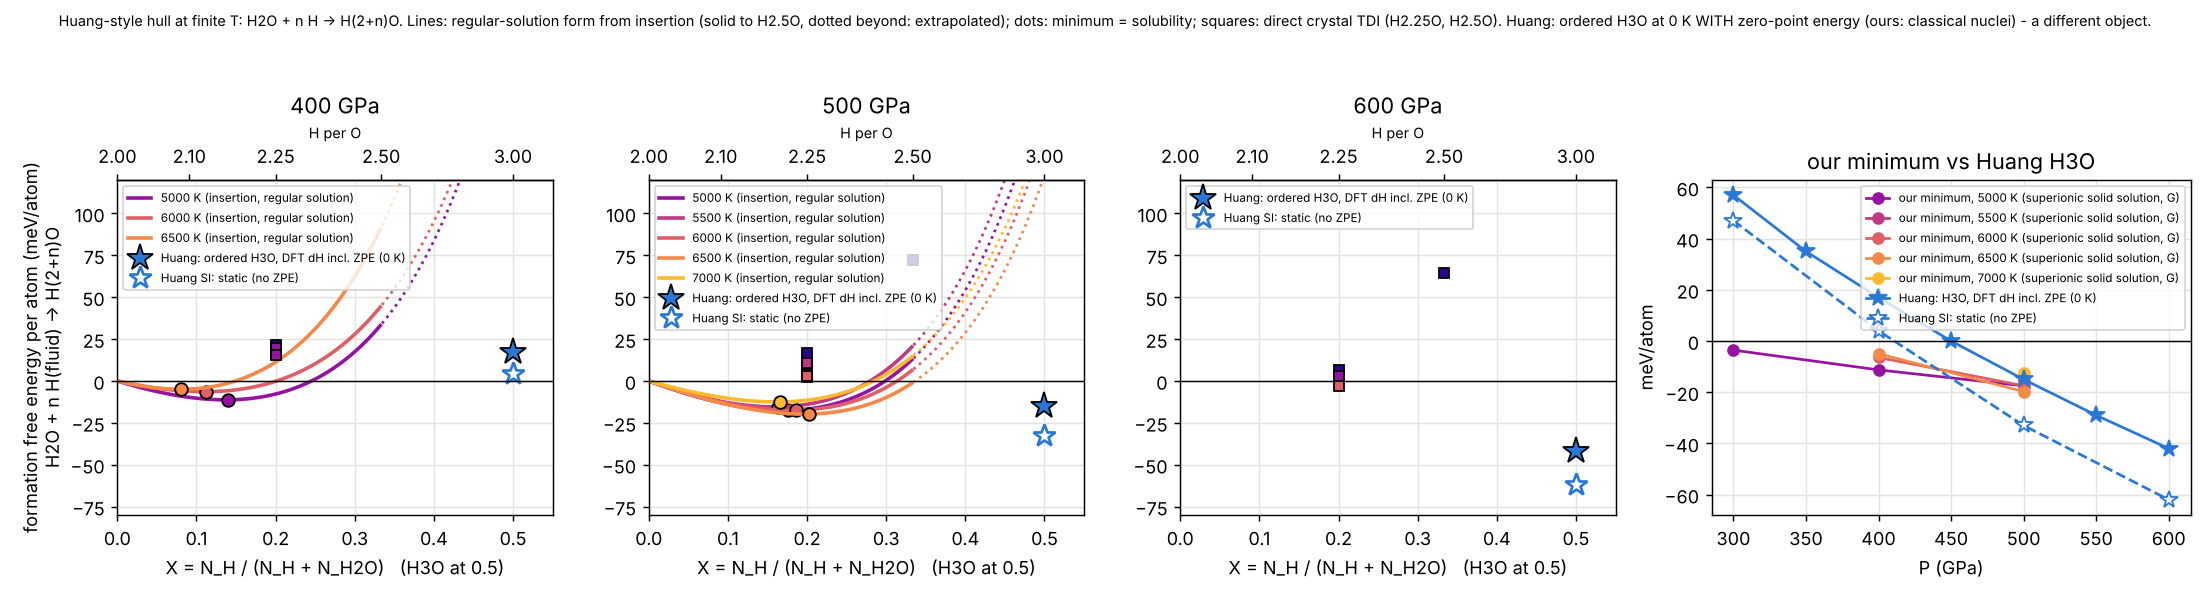
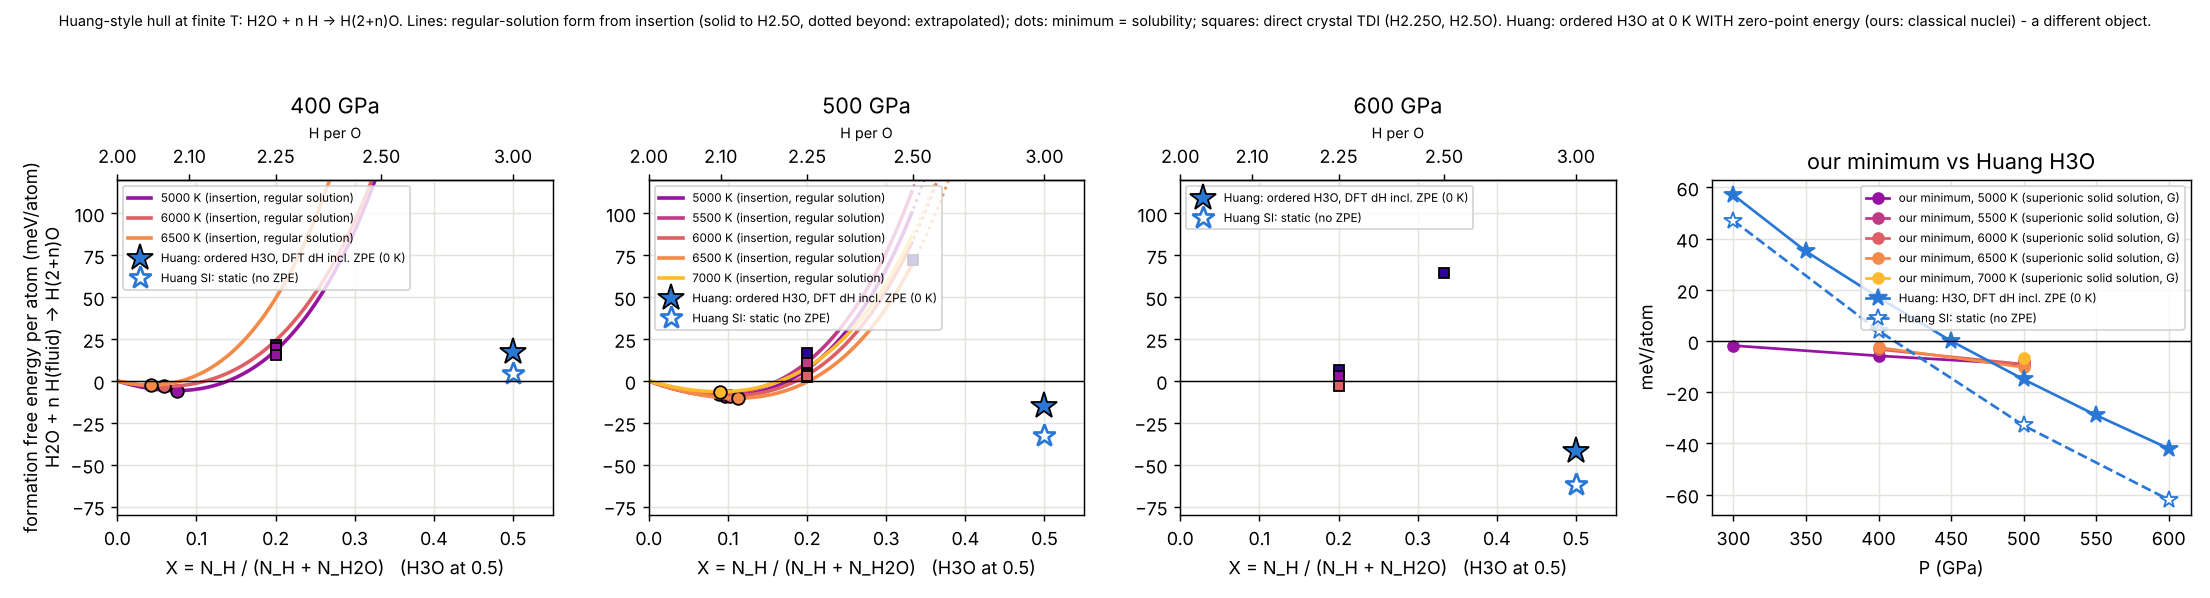
h3o_static: --variants (skip partly filled H3O), reuse finished pressures, batch job young_h3o_static.sbatch; T-x diagram (tx_diagram.py) from solid insertion + liquid mixing + melting dG; regular-solution fit is an average per added H: solubility n* = -mu0/(2s)
Claude-Session: https://claude.ai/code/session_01RSfmJNpmRzcKj5F71AN4DM

diff --git a/mlp_pipeline/tdi/tx_diagram.py b/mlp_pipeline/tdi/tx_diagram.py
@@ -1,0 +1,139 @@
+"""T-x phase diagram of H2O + H at fixed P from our free energies (GRACE TDI), per atom vs X = n/(3+n) (atom fraction of added H; X = 0 H2O, X = 1 pure H):
+  solid solution (superionic fcc H(2+n)O): g_s = (mu0 n + s n^2) / (3 + n): mu0 + s n is the AVERAGE dG per added H (insertion of n H and the direct crystals both
+      measure averages; docs/data/insertion_regsol_fit.csv), so the next-H chemical potential is mu0 + 2 s n; mu0, s linear in T;
+      only n <= NMAX (0.6) is used (beyond: extrapolation of the regular-solution form);
+  liquid: g_l = (1 - X) dG_melt(T) + dG_mix(X, T), dG_melt = G_liq - G_fcc of H2O (docs/data/melt_dG_grace.csv, linear in T),
+      dG_mix = X (1 - X) (a + b (1 - 2X)) fitted to the liquid mixing points (docs/data/liquid_mix_grace.csv) at each T, a, b linear in T between the T with data;
+  all relative to H2O solid + fluid H (pure H fluid: 0). At each T the lower convex hull gives: solid solution up to the SOLVUS x_s, two phases (solid + liquid),
+  liquid from x_l (LIQUIDUS composition) on; if the hull starts on the liquid, the H2O solid is gone (melted). Monte Carlo over all input errors -> 16-84 % bands.
+Check printed: direct TDI G_liq - G_fcc of H2.25O vs the model's g_l - g_s at n = 0.25.
+Limits: temperatures outside the data are extrapolated (marked); the liquid fit has 3-5 compositions; finite-size and model (GRACE) errors are not in the bands.
+usage: python3 mlp_pipeline/tdi/tx_diagram.py [--P 400 500 300] [-o docs/figures/tx_diagram]   -> <o>.png, <o>.csv
+"""
+import argparse, csv
+import numpy as np
+import matplotlib
+matplotlib.use("Agg")
+import matplotlib.pyplot as plt
+
+NMAX = 0.6
+
+
+def rows(f):
+    return [{k: float(v) for k, v in r.items()} for r in csv.DictReader(l for l in open(f) if not l.startswith("#"))]
+
+
+def linfit(T, y, e):
+    T, y, e = map(np.asarray, (T, y, e))
+    if len(T) == 1: return np.array([0.0, y[0]]), np.array([0.0, e[0]])
+    w = 1 / np.maximum(e, 1e-6) ** 2; A = np.vstack([T - 6000, np.ones_like(T)]).T * np.sqrt(w)[:, None]
+    c, *_ = np.linalg.lstsq(A, y * np.sqrt(w), rcond=None); cov = np.linalg.inv(A.T @ A); return c, np.sqrt(np.diag(cov))
+
+
+def rk_fit(X, d, e):
+    X, d, e = map(np.asarray, (X, d, e)); w = 1 / e ** 2
+    B = np.vstack([X * (1 - X), X * (1 - X) * (1 - 2 * X)]).T
+    if len(X) < 3: B = B[:, :1]
+    c, *_ = np.linalg.lstsq(B * np.sqrt(w)[:, None], d * np.sqrt(w), rcond=None)
+    return np.r_[c, 0.0][:2]
+
+
+def lower_hull(pts):
+    pts = sorted(pts); h = []
+    for p in pts:
+        while len(h) >= 2 and (h[-1][0] - h[-2][0]) * (p[1] - h[-2][1]) - (h[-1][1] - h[-2][1]) * (p[0] - h[-2][0]) <= 0: h.pop()
+        h.append(p)
+    return h
+
+
+class Model:
+    def __init__(self, P, rng=None):
+        fit = [r for r in rows("docs/data/insertion_regsol_fit.csv") if r["P_GPa"] == P]
+        melt = [r for r in rows("docs/data/melt_dG_grace.csv") if r["P_GPa"] == P and r["H_per_O"] == 2]
+        liq = [r for r in rows("docs/data/liquid_mix_grace.csv") if r["P_GPa"] == P]
+        if not fit or not melt or not liq: raise ValueError(f"{P} GPa: missing insertion / melting / liquid data")
+        z = (lambda e: rng.normal(0, e)) if rng is not None else (lambda e: 0.0)
+        self.Tr = dict(solid=(min(r["T_K"] for r in fit), max(r["T_K"] for r in fit)), melt=(min(r["T_K"] for r in melt), max(r["T_K"] for r in melt)),
+                       liquid=(min(r["T_K"] for r in liq), max(r["T_K"] for r in liq)))
+        self.mu0 = linfit([r["T_K"] for r in fit], [r["mu0"] + z(r["mu0_err"]) for r in fit], [r["mu0_err"] for r in fit])[0]
+        self.s = linfit([r["T_K"] for r in fit], [max(200.0, r["s"] + z(min(r["s_err"], r["s"] * 0.5))) for r in fit], [r["s_err"] for r in fit])[0]
+        self.dm = linfit([r["T_K"] for r in melt], [r["dG_meV_atom"] + z(r["err"]) for r in melt], [r["err"] for r in melt])[0]
+        self.lT, self.lab = [], []
+        for T in sorted({r["T_K"] for r in liq}):
+            g = [r for r in liq if r["T_K"] == T]; X = [r["n"] / (3 + r["n"]) for r in g]
+            self.lT.append(T); self.lab.append(rk_fit(X, [r["dG_meV_atom"] + z(r["err"]) for r in g], [r["err"] for r in g]))
+        self.lab = np.array(self.lab)
+
+    def gs(self, X, T):
+        n = 3 * X / (1 - X); mu0 = self.mu0[0] * (T - 6000) + self.mu0[1]; s = max(self.s[0] * (T - 6000) + self.s[1], 100.0)
+        return (mu0 * n + s * n ** 2) / (3 + n)
+
+    def gl(self, X, T):
+        a = np.interp(T, self.lT, self.lab[:, 0]); b = np.interp(T, self.lT, self.lab[:, 1]); dm = self.dm[0] * (T - 6000) + self.dm[1]
+        return (1 - X) * dm + X * (1 - X) * (a + b * (1 - 2 * X))
+
+    def phases(self, T):
+        """(x_s solvus or nan if no solid, x_l liquidus composition, solid stable at X = 0)"""
+        Xs = np.linspace(0, NMAX / (3 + NMAX), 60); Xl = np.linspace(0, 1, 201)
+        pts = [(x, self.gs(x, T), "s") for x in Xs] + [(x, self.gl(x, T), "l") for x in Xl]
+        h = lower_hull([(p[0], p[1], p[2]) for p in pts])
+        if h[0][2] == "l": return np.nan, 0.0, False
+        last_s = max(i for i, p in enumerate(h) if p[2] == "s")
+        xs = h[last_s][0]; xl = h[last_s + 1][0] if last_s + 1 < len(h) else 1.0
+        return xs, xl, True
+
+    def extrap(self, T):
+        return any(T < lo - 1 or T > hi + 1 for lo, hi in self.Tr.values())
+
+
+def main():
+    ap = argparse.ArgumentParser(); ap.add_argument("--P", type=float, nargs="+", default=[400, 500, 300]); ap.add_argument("--mc", type=int, default=300)
+    ap.add_argument("-o", default="docs/figures/tx_diagram"); a = ap.parse_args()
+    fig, axs = plt.subplots(1, len(a.P), figsize=(6.2 * len(a.P), 5.4), squeeze=False); out = []
+    rng = np.random.default_rng(1)
+    for ax, P in zip(axs[0], a.P):
+        try:
+            m0 = Model(P)
+        except ValueError as e:
+            ax.set_title(f"{P:.0f} GPa: {e}", fontsize=8); continue
+        lo = min(v[0] for v in m0.Tr.values()) - 500; hi = max(m0.Tr["melt"][1], m0.Tr["solid"][1]) + 700
+        Ts = np.arange(lo, hi + 1, 50.0)
+        mcs = [Model(P, rng) for _ in range(a.mc)]
+        res = np.array([[mm.phases(T)[:2] for T in Ts] for mm in mcs])   # (mc, T, 2)
+        best = np.array([m0.phases(T)[:2] for T in Ts])
+        q = lambda k, p: np.nanpercentile(res[:, :, k], p, axis=0)
+        psolid = np.mean(np.isfinite(res[:, :, 0]), axis=0)
+        xs, xl = best[:, 0], best[:, 1]; ok = np.isfinite(xs)
+        ax.fill_betweenx(Ts[ok], 0, xs[ok], color="#cde2fb", label="superionic H(2+n)O solid solution")
+        ax.fill_betweenx(Ts[ok], xs[ok], xl[ok], color="#f3f2ee", label="solid solution + H-rich liquid")
+        ax.fill_betweenx(Ts, np.where(ok, xl, 0), 1, color="#fbe3ec", label="liquid (H2O-H miscible)")
+        ax.plot(xs, Ts, color="#1c5cab", lw=2, label="solvus (max H in the solid)"); ax.plot(np.where(ok, xl, np.nan), Ts, color="#d55181", lw=2, label="liquidus (liquid in equilibrium)")
+        with np.errstate(all="ignore"):
+            ax.fill_betweenx(Ts, q(0, 16), q(0, 84), color="#1c5cab", alpha=0.18, lw=0); ax.fill_betweenx(Ts, q(1, 16), q(1, 84), color="#d55181", alpha=0.18, lw=0)
+        Tm = Ts[np.argmax(~ok)] if (~ok).any() else np.nan
+        ax.axhline(Tm, color="k", lw=0.8, ls=":"); ax.text(0.55, Tm + 40, f"pure H2O melts ~{Tm:.0f} K (model)", fontsize=7.5)
+        for T in Ts:
+            if m0.extrap(T): ax.axhspan(T - 25, T + 25, color="w", alpha=0.35, lw=0)
+        sec = ax.secondary_xaxis("top", functions=(lambda x: 2 + 3 * x / np.maximum(1 - x, 1e-9), lambda h: (h - 2) / (h + 1)))
+        sec.set_xticks([2, 2.25, 2.5, 3, 4, 6]); sec.set_xlabel("H per O")
+        ax.set(xscale="linear", xlim=(0, 0.6), ylim=(Ts[0], Ts[-1]), xlabel="X = added-H atom fraction n/(3+n)   (0: H2O, 1: pure H)", ylabel="T (K)", title=f"{P:.0f} GPa")
+        ax.legend(fontsize=7, loc="upper right"); ax.grid(alpha=0.25)
+        print(f"\n{P:.0f} GPa (data T: solid {m0.Tr['solid']}, melting {m0.Tr['melt']}, liquid {m0.Tr['liquid']}; outside = extrapolated, light rows)")
+        print(f"   pure H2O melting (model) ~{Tm:.0f} K;  P(solid exists) from MC at that T: {psolid[np.argmin(abs(Ts - Tm))]:.2f}")
+        for T, (s_, l_), lo16, hi84 in zip(Ts, best, q(0, 16), q(0, 84)):
+            if T % 500 == 0:
+                print(f"   {T:6.0f} K: " + (f"solvus H{2 + 3 * s_ / (1 - s_):.2f}O (X {s_:.3f}, 16-84 % {lo16:.3f}-{hi84:.3f}), coexisting liquid X {l_:.2f} (H{2 + 3 * l_ / (1 - l_):.1f}O)" if np.isfinite(s_) else "no solid (all liquid)")
+                      + ("   [extrapolated]" if m0.extrap(T) else ""))
+                out.append(dict(P_GPa=P, T_K=T, solvus_X=s_, solvus_X16=lo16, solvus_X84=hi84, liquidus_X=l_, extrapolated=int(m0.extrap(T))))
+        for r in [r for r in rows("docs/data/melt_dG_grace.csv") if r["P_GPa"] == P and r["H_per_O"] == 2.25]:
+            X = 0.25 / 3.25; print(f"   check H2.25O at {r['T_K']:.0f} K: direct TDI G_liq - G_fcc {r['dG_meV_atom']:6.1f} +- {r['err']:.1f}, model {m0.gl(X, r['T_K']) - m0.gs(X, r['T_K']):6.1f} meV/atom")
+    fig.suptitle("T-x diagram of H2O + H from GRACE free energies (classical nuclei): superionic solid solution, two-phase field, miscible liquid; bands = 16-84 % (statistical only); pale rows = extrapolated in T", fontsize=9)
+    fig.tight_layout(rect=(0, 0, 1, 0.95)); fig.savefig(a.o + ".png", dpi=130)
+    if out:
+        with open(a.o + ".csv", "w", newline="") as fh:
+            w = csv.DictWriter(fh, fieldnames=list(out[0])); w.writeheader(); w.writerows(out)
+    print("\nwrote", a.o + ".png", a.o + ".csv")
+
+
+if __name__ == "__main__":
+    main()

diff --git a/mlp_pipeline/h3o_static.py b/mlp_pipeline/h3o_static.py
@@ -9,7 +9,8 @@ difference H(P) - H(450 GPa) per cell next to the user's CASTEP values (docs/dat
 the DFT equation of state of H3O (dH/dP = V), whatever the absolute energy reference.
 Caveat: the MLP was trained on hot superionic / fluid configurations, not on cold molecular or atomic H solids: the H reference is the weak link.
 These are STATIC enthalpies (no zero-point energy); Huang's published dH(P) curve includes ZPE, so compare with a static DFT calculation of the same references.
-usage (repo root, GPU node):  ~/grace-venv/bin/python mlp_pipeline/h3o_static.py [--model grace-ft:runs/grace/ft_m2] [--P 300 400 450 500 600 700 800] [--parallel 7] [-o runs/h3o_static]
+usage (repo root, GPU node):  ~/grace-venv/bin/python mlp_pipeline/h3o_static.py [--model grace-ft:runs/grace/ft_m2] [--P 300 400 450 500 600 700 800] [--parallel 7] [-o runs/h3o_static] [--variants 3 2.5] [--redo]
+   batch job: sbatch mlp_pipeline/young_h3o_static.sbatch   (finished pressures in <o>/P<P> are reused)
 """
 import os as _os; _os.environ.setdefault("TF_FORCE_GPU_ALLOW_GROWTH", "true")   # several processes share one GPU: without this the first takes nearly all of its memory
 import argparse, csv, os, sys, warnings
@@ -109,7 +110,9 @@ def main():
     ap = argparse.ArgumentParser(); ap.add_argument("--model", default="grace-ft:runs/grace/ft_m2"); ap.add_argument("--device", default="cuda")
     ap.add_argument("--P", type=float, nargs="+", default=[300, 400, 450, 500, 600, 700, 800]); ap.add_argument("--cell", default="docs/data/h3o_huang.cell")
     ap.add_argument("--steps", type=int, default=2000); ap.add_argument("--fmax", type=float, default=0.01); ap.add_argument("-o", default="runs/h3o_static")
-    ap.add_argument("--parallel", type=int, default=1, help="pressures run as separate processes sharing the GPU, at most this many at once (~4.5 GB GPU memory each)"); a = ap.parse_args()
+    ap.add_argument("--parallel", type=int, default=1, help="pressures run as separate processes sharing the GPU, at most this many at once (~4.5 GB GPU memory each)")
+    ap.add_argument("--variants", type=float, nargs="+", default=[3, 2.75, 2.5, 2.25], help="H per O of the H3O-derived variants to relax (e.g. --variants 3 to skip the partly filled ones)")
+    ap.add_argument("--redo", action="store_true", help="parallel mode: rerun pressures whose <o>/P<P>/h3o_static.csv exists (default: reuse them)"); a = ap.parse_args()
     if a.parallel > 1 and len(a.P) > 1:
         return run_parallel(a)
     from importlib import import_module
@@ -120,7 +123,9 @@ def main():
     variants = {}
     for k in (0, 2, 4, 6):   # remove k guest pairs, spread over the list
         rm = sorted({i for p in pairs[::max(1, len(pairs) // k)][:k] for i in p}) if k else []
-        v = h3o.copy(); del v[rm]; n = (int((v.numbers == 1).sum()) - 2 * nO) / nO; variants[n] = v
+        v = h3o.copy(); del v[rm]; n = (int((v.numbers == 1).sum()) - 2 * nO) / nO
+        if any(abs(2 + n - h) < 1e-6 for h in a.variants): variants[n] = v
+    print(f"variants: " + ", ".join(f"H{2 + n:.3g}O" for n in sorted(variants)) + f" (--variants {' '.join(f'{h:g}' for h in a.variants)})", flush=True)
     rows = []; PROG["total"] = len(a.P) * (1 + len(h_candidates()) + len(variants))
     print(f"plan: {len(a.P)} pressures x ({1 + len(h_candidates())} references + {len(variants)} H3O variants) = {PROG['total']} relaxations", flush=True)
     for P in a.P:
@@ -167,13 +172,16 @@ def eos_table(rows, out):
 def run_parallel(a):
     """one child process per pressure (output <o>/P<P>), at most a.parallel at once; their lines are streamed with a [P GPa] prefix; results merged at the end"""
     import subprocess, threading, time
-    base = [sys.executable, "-u", os.path.abspath(__file__), "--model", a.model, "--device", a.device, "--cell", a.cell, "--steps", str(a.steps), "--fmax", str(a.fmax)]
+    base = [sys.executable, "-u", os.path.abspath(__file__), "--model", a.model, "--device", a.device, "--cell", a.cell, "--steps", str(a.steps), "--fmax", str(a.fmax),
+            "--variants"] + [f"{h:g}" for h in a.variants]
     quiet = ("tensorflow", "xla", "cuda", "I0000", "W0000", "E0000", "ptxas", "absl", "cpu_feature", "AVX2", "Registers are spilled", "XLA service", "StreamExecutor", "rebuild TensorFlow")
     def pump(proc, tag):
         for line in proc.stdout:
             err = any(k in line for k in ("Error", "error:", "Traceback", "OOM", "out of memory", "Exhausted")) and "_handle_getgr" not in line   # never hide the reason of a crash
             if line.strip() and (err or not any(q.lower() in line.lower() for q in quiet)): print(f"[{tag:>4s} GPa] {line.rstrip()}", flush=True)
-    todo = list(a.P); running = []; t0 = time.time()
+    done = [P for P in a.P if not a.redo and os.path.exists(os.path.join(a.o, f"P{P:.0f}", "h3o_static.csv"))]
+    if done: print("reusing finished pressures (--redo to rerun): " + ", ".join(f"{P:.0f} GPa" for P in done), flush=True)
+    todo = [P for P in a.P if P not in done]; running = []; t0 = time.time()
     print(f"parallel: {len(todo)} pressures, at most {a.parallel} processes on the GPU at once", flush=True)
     while todo or running:
         while todo and len(running) < a.parallel:

diff --git a/mlp_pipeline/tdi/huang_hull.py b/mlp_pipeline/tdi/huang_hull.py
@@ -1,6 +1,7 @@
 """Huang-style formation free energy of H(2+n)O from H2O + n H(fluid), per atom, vs X = n / (n + 1) (Huang et al.: X = N_H / (N_H + N_H2O), H3O at X = 0.5),
-for the superionic fcc solid solution at finite T from our GRACE TDI: regular-solution form from insertion (mu_H - G_H = mu0 + s n, n = added H per O):
-   dG(n) per formula unit = mu0 n + s n^2 / 2,  per atom / (3 + n);  minimum at n* = -mu0 / s (the solubility), dG(n*) = -mu0^2 / (2 s).
+for the superionic fcc solid solution at finite T from our GRACE TDI: regular-solution form from insertion (AVERAGE dG per added H = mu0 + s n, n = added H per O;
+   insertion of n H and the direct crystals both measure averages): dG(n) per formula unit = mu0 n + s n^2, per atom / (3 + n); next-H cost mu0 + 2 s n;
+   minimum at n* = -mu0 / (2 s) (the solubility), dG(n*) = -mu0^2 / (4 s).
 Direct crystal TDI points (H2.25O, H2.5O; summarize mixing rows, melted / mismatched ones left out) per atom = n * (average per added H) / (3 + n).
 Compared with Huang's DFT enthalpy of the ordered H3O phase INCLUDING zero-point energy (their figure, read off; our numbers are classical, no ZPE). Different objects: theirs is an ordered crystal at 0 K, ours a
 disordered superionic solution at 4000-7000 K (G, including entropy); an ordered H3O phase below our curve would be the stable one.
@@ -32,10 +33,10 @@ def main():
     n = np.linspace(0, 1.0, 200); X = n / (n + 1)
     for axi, P in zip(ax[:3], (400, 500, 600)):
         for r in [r for r in fit if r["P_GPa"] == P]:
-            g = (r["mu0"] * n + r["s"] * n ** 2 / 2) / (3 + n); c = col(r["T_K"]); sol = n <= 0.5
+            g = (r["mu0"] * n + r["s"] * n ** 2) / (3 + n); c = col(r["T_K"]); sol = n <= 0.5
             axi.plot(X[sol], g[sol], "-", color=c, lw=2, label=f"{r['T_K']:.0f} K (insertion, regular solution)")
             axi.plot(X[~sol], g[~sol], ":", color=c, lw=1.5)
-            ns = -r["mu0"] / r["s"]; axi.plot(ns / (ns + 1), -r["mu0"] ** 2 / (2 * r["s"]) / (3 + ns), "o", color=c, mec="k", ms=7)
+            ns = -r["mu0"] / (2 * r["s"]); axi.plot(ns / (ns + 1), -r["mu0"] ** 2 / (4 * r["s"]) / (3 + ns), "o", color=c, mec="k", ms=7)
         for (p, T, nn, d, e) in CRYSTAL:
             if p == P:
                 axi.errorbar(nn / (nn + 1), nn * d / (3 + nn), nn * e / (3 + nn), fmt="s", color=col(T), mec="k", ms=6, capsize=2)
@@ -50,7 +51,7 @@ def main():
     ax[0].set_ylabel("formation free energy per atom (meV/atom)\nH2O + n H(fluid) -> H(2+n)O")
     b = ax[3]
     for T in sorted({r["T_K"] for r in fit}):
-        s = sorted((r["P_GPa"], -r["mu0"] ** 2 / (2 * r["s"]) / (3 - r["mu0"] / r["s"])) for r in fit if r["T_K"] == T)
+        s = sorted((r["P_GPa"], -r["mu0"] ** 2 / (4 * r["s"]) / (3 - r["mu0"] / (2 * r["s"]))) for r in fit if r["T_K"] == T)
         b.plot(*zip(*s), "o-", color=col(T), label=f"our minimum, {T:.0f} K (superionic solid solution, G)")
     b.plot([x["P_GPa"] for x in hu], [x["dH_meV_atom"] for x in hu], "*-", color="#2a78d6", ms=10, label="Huang: H3O, DFT dH incl. ZPE (0 K)")
     s2 = [x for x in hs if x["P_GPa"] <= 650]; b.plot([x["P_GPa"] for x in s2], [x["dH_meV_atom"] for x in s2], "*--", color="#2a78d6", mfc="white", ms=10, label="Huang SI: static (no ZPE)")
@@ -59,7 +60,7 @@ def main():
                  "squares: direct crystal TDI (H2.25O, H2.5O). Huang: ordered H3O at 0 K WITH zero-point energy (ours: classical nuclei) - a different object.", fontsize=8)
     fig.tight_layout(rect=(0, 0, 1, 0.94)); fig.savefig(a.o, dpi=130); print("wrote", a.o)
     for r in fit:
-        ns = -r["mu0"] / r["s"]; print(f"{r['P_GPa']:.0f} GPa {r['T_K']:.0f} K: solubility n* = {ns:.3f} H per O (H{2 + ns:.2f}O, X = {ns / (1 + ns):.3f}), minimum {-r['mu0'] ** 2 / (2 * r['s']) / (3 + ns):6.1f} meV/atom")
+        ns = -r["mu0"] / (2 * r["s"]); print(f"{r['P_GPa']:.0f} GPa {r['T_K']:.0f} K: solubility n* = {ns:.3f} H per O (H{2 + ns:.2f}O, X = {ns / (1 + ns):.3f}), minimum {-r['mu0'] ** 2 / (4 * r['s']) / (3 + ns):6.1f} meV/atom")
 
 
 if __name__ == "__main__":
